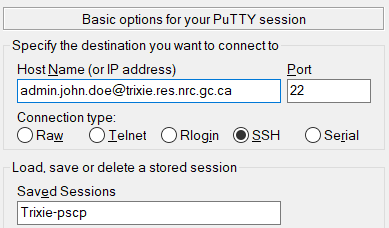
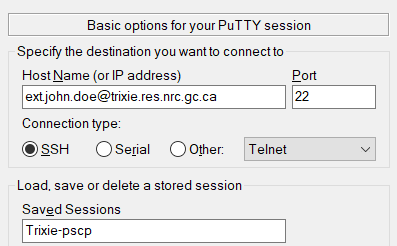
Docs: Switched admin to ext

Changed region(s): [[0.0308, 0.2763, 0.9563, 0.6754], [0.0, 0.0307, 0.9871, 0.2456], [0.0308, 0.7061, 0.7404, 1.0]]

diff --git a/docs/File-Transfers.md b/docs/File-Transfers.md
@@ -16,17 +16,17 @@ To copy a file to the Trixie server, please use the **scp** command on your loca
 
 Please note that the use of this method requires that your system be configured as detailed in the [advanced configuration](External-Access-Advanced-Configuration.md) in order to provide a direct link between your local machine and the Trixie server.
 
-The following command will copy the file ``test.txt`` from John Doe’s local machine to his **admin.john.doe** account on Trixie. Please note that using **trixie** as the hostname will only work if you have configured SSH to use **ProxyJump** as detailed in the [advanced configuration](External-Access-Advanced-Configuration.md).
+The following command will copy the file ``test.txt`` from John Doe’s local machine to his **ext.john.doe** account on Trixie. Please note that using **trixie** as the hostname will only work if you have configured SSH to use **ProxyJump** as detailed in the [advanced configuration](External-Access-Advanced-Configuration.md).
 
-``scp test.txt trixie:/home/admin.john.doe``
+``scp test.txt trixie:/home/ext.john.doe``
 
 To copy a file from Trixie to your local machine, you basically reverse the arguments to the **scp** command.
 
-``scp trixie:/home/admin.john.doe/test.txt test.txt``
+``scp trixie:/home/ext.john.doe/test.txt test.txt``
 
 To copy an entire directory instead of just a file, please use the **–r** option (for recursive) to the **scp** command.
 
-``scp –r myWorkFilesDir trixie:/home/admin.john.doe``
+``scp –r myWorkFilesDir trixie:/home/ext.john.doe``
 
 ### Internal Users
 
@@ -57,7 +57,7 @@ First you will need to configure **WinSCP** to connect to Trixie using an SSH tu
 1. In the window that pops up, perform the following
       1. Make sure the **File protocol** is set to *SCP*
       1. Set the **Host name**: *trixie.res.nrc.gc.ca*
-      1. Set the **User name**: *<admin.firstname.lastname\>*<br>
+      1. Set the **User name**: *<ext.firstname.lastname\>*<br>
          The window should now look similar to the following<br>
          ![winscp-2](images/trixie-winscp-2.png)
       1. Click the **Advanced** button
@@ -124,7 +124,7 @@ Follow the procedure below to create the Trixie server profile.
 
 Under **Session**
 
-1. Set **Host Name (or IP address)**: *<admin.firstname.lastname\>@trixie.res.nrc.gc.ca*
+1. Set **Host Name (or IP address)**: *<ext.firstname.lastname\>@trixie.res.nrc.gc.ca*
 1. Set **Port**: *22*
 1. Add a name for **Saved Sessions** – perhaps *Trixie-pscp*<br>
    ![putty1](images/trixie-pscp-putty-1.png)
@@ -136,12 +136,12 @@ Once you have the profiles created and saved, please follow the procedure below 
 1. Login to the bastion server and leave the window open
 1. Open a **Command Prompt** window
 1. Use the **pscp** command in the **Command Prompt** window to copy files to or from the trixie server using the *Trixie-pscp* putty profile
-      1. Copy the file ``test.txt`` from John Doe’s local machine to his **admin.john.doe** account on trixie<br>
-         ``pscp test.txt Trixie-pscp:/home/admin.john.doe``
+      1. Copy the file ``test.txt`` from John Doe’s local machine to his **ext.john.doe** account on trixie<br>
+         ``pscp test.txt Trixie-pscp:/home/ext.john.doe``
       1. To copy a file from trixie to your local machine, you basically reverse the arguments to the **pscp** command<br>
-         ``pscp Trixie-pscp:/home/admin.john.doe/test.txt test.txt ``
+         ``pscp Trixie-pscp:/home/ext.john.doe/test.txt test.txt ``
       1. To copy an entire directory instead of just a file, please use the **–r** option (for recursive) to the **pscp** command<br>
-         ``pscp –r myWorkFilesDir Trixie-pscp:/home/admin.john.doe``
+         ``pscp –r myWorkFilesDir Trixie-pscp:/home/ext.john.doe``
 
 ### Internal Users
 
@@ -214,15 +214,15 @@ This procedure requires that you copy files between the two clusters using your 
 
 To copy a file from the second HPC cluster to Trixie, use the following **scp** command on your local computer.
 
-``scp username@cluster.domain:/home/username/test.txt trixie:/home/admin.john.doe/test.txt``
+``scp username@cluster.domain:/home/username/test.txt trixie:/home/ext.john.doe/test.txt``
 
 To copy a file from Trixie to the second HPC cluster, you basically reverse the arguments to the **scp** command.
 
-``scp trixie:/home/admin.john.doe/test.txt username@cluster.domain:/home/username/test.txt``
+``scp trixie:/home/ext.john.doe/test.txt username@cluster.domain:/home/username/test.txt``
 
 To copy an entire directory instead of just a file, please use the **–r** option (for recursive) to the **scp** command.
 
-``scp –r trixie:/home/admin.john.doe/myWorkFilesDir username@cluster.domain:/home/username/folder``
+``scp –r trixie:/home/ext.john.doe/myWorkFilesDir username@cluster.domain:/home/username/folder``
 
 # Copy Files to a Project Folder
 
@@ -252,6 +252,7 @@ To copy files to a project folder you should create a personal folder under the 
 
 # Related Topics
 
-[External Access Setup](External-Access-Setup.md)
-
-[External Access Advanced Configuration](External-Access-Advanced-Configuration.md)
+[External Access Setup](External-Access-Setup.md)<br>
+[External Access Advanced Configuration](External-Access-Advanced-Configuration.md)<br>
+[Internal Access Setup](Internal-Access-Setup.md)<br>
+[Internal Access Advanced Configuration](Internal-Access-Advanced-Configuration.md)
